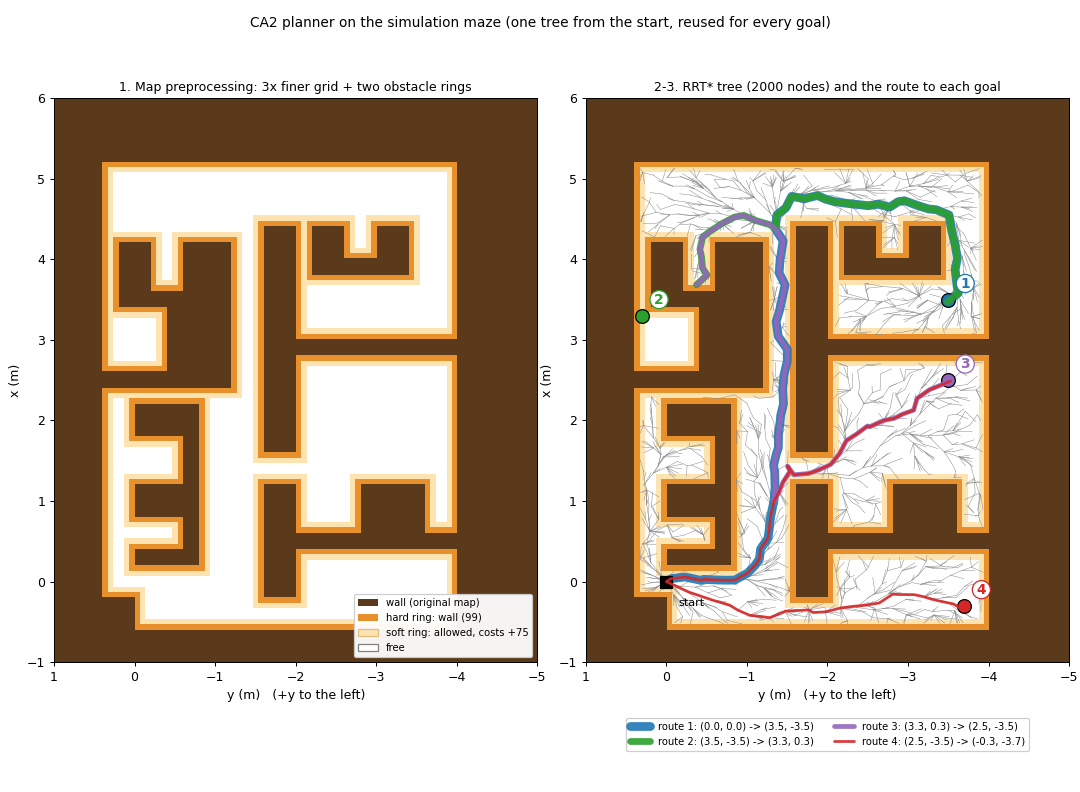
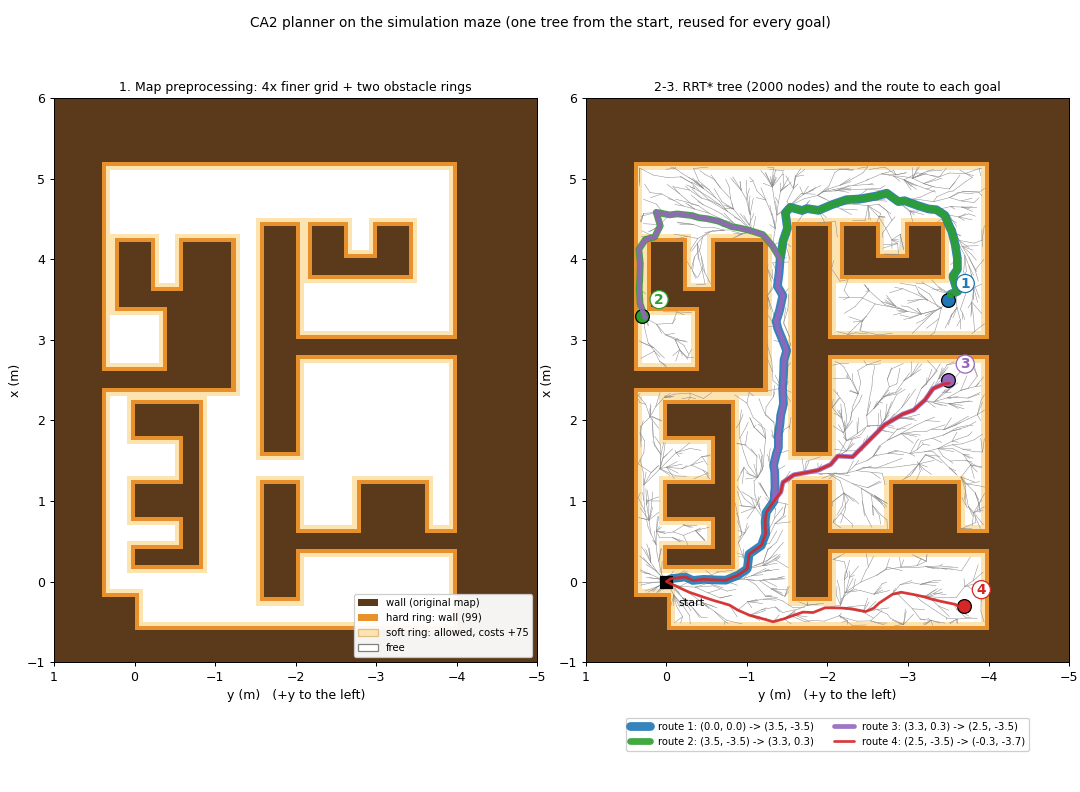
Final final

diff --git a/media/ca2/make_ca2_media.py b/media/ca2/make_ca2_media.py
@@ -24,17 +24,18 @@ cfg = pp.sim_config
 grid = np.load(os.path.join(PKG, cfg["map_file"]), allow_pickle=True)
 origin, res, goals = cfg["origin"], cfg["resolution"], cfg["goal_list"]
 start = (0.0, 0.0)
+UP = 4  # map_upsample_factor in WaypointNode.__init__
 
 
 def preprocessed():
-    fake = types.SimpleNamespace(map_array=grid, map_upsample_factor=3)
+    fake = types.SimpleNamespace(map_array=grid, map_upsample_factor=UP)
     return pp.WaypointNode.preprocess_map(fake)
 
 
 def build_tree(fine, n_nodes=2000, seed=0):
     '''The same RRT* loop as WaypointNode.timer_callback (seeded so the figure is repeatable).'''
     np.random.seed(seed)
-    fres = res / 3
+    fres = res / UP
     tree = pp.Tree()
     tree.add_node(pp.TreeNode(pos=start, cost=0, parent_id=-1, id=0, fixed_cost=0))
     while len(tree.nodes) < n_nodes:
@@ -62,7 +63,7 @@ def routes(tree):
 
 def show_map(ax, fine, title):
     # 0 free, 75 soft ring, 99 hard (original wall or hard ring)
-    original = np.repeat(np.repeat(grid, 3, axis=0), 3, axis=1) == 99
+    original = np.repeat(np.repeat(grid, UP, axis=0), UP, axis=1) == 99
     layer = np.where(original, 3, np.where(fine == 99, 2, np.where(fine == 75, 1, 0)))
     cmap = ListedColormap(["white", "#fde3b0", "#e8902c", "#5a3a1a"])
     x1, y1 = origin[0] + grid.shape[0] * res, origin[1] + grid.shape[1] * res
@@ -83,7 +84,7 @@ def figure_planner():
     fig, axs = plt.subplots(1, 2, figsize=(12, 8.8), dpi=DPI)
     fig.subplots_adjust(left=0.05, right=0.99, top=0.9, bottom=0.14, wspace=0.1)
 
-    show_map(axs[0], fine, "1. Map preprocessing: 3x finer grid + two obstacle rings")
+    show_map(axs[0], fine, f"1. Map preprocessing: {UP}x finer grid + two obstacle rings")
     from matplotlib.patches import Patch
     axs[0].legend(handles=[Patch(fc="#5a3a1a", label="wall (original map)"), Patch(fc="#e8902c", label="hard ring: wall (99)"),
                            Patch(fc="#fde3b0", ec="#e0c080", label="soft ring: allowed, costs +75"), Patch(fc="white", ec="gray", label="free")],

diff --git a/rb2301/src/rb2301_ca2/rb2301_ca2/path_planning.py b/rb2301/src/rb2301_ca2/rb2301_ca2/path_planning.py
@@ -167,7 +167,7 @@ class WaypointNode(Node):
         self.map_array = map_array
         self.origin = origin # World (x, y) coordinate of the grid's [0, 0] corner. Use with grid_to_world()/world_to_grid()
         self.resolution = resolution # Metres per grid cell (0.2). Use with grid_to_world()/world_to_grid()
-        self.map_upsample_factor = 3
+        self.map_upsample_factor = 4
         self.planning_resolution = self.resolution / self.map_upsample_factor
 
         self.frame = frame # Optitrack->maze frame (real robot only), see optitrack_to_maze()
@@ -332,8 +332,8 @@ class WaypointNode(Node):
         self.car_initial_alignment_complete = False
 
     # Upsample the occupancy grid, then apply two one-fine-cell bubbles:
-    # first a hard 99 ring, followed by a softer 75 ring.  Each ring is 1/3
-    # of an original cell because the planning map has 3x resolution.
+    # first a hard 99 ring, followed by a softer 75 ring.  Each ring is 1/4
+    # of an original cell because the planning map has 4x resolution.
     def preprocess_map(self) -> np.ndarray:
         original_map = np.repeat(
             np.repeat(self.map_array, self.map_upsample_factor, axis=0),

diff --git a/CA2.md b/CA2.md
@@ -12,7 +12,7 @@ The robot has to drive through a known maze and reach a list of goal points in o
 
 ```mermaid
 flowchart LR
-    A[Occupancy grid] --> B[Upsample x3<br/>+ obstacle bubbles]
+    A[Occupancy grid] --> B[Upsample x4<br/>+ obstacle bubbles]
     B --> C[RRT* tree<br/>2000 nodes, built once]
     C --> D[Route to next goal<br/>via lowest common ancestor]
     D --> E[Carrot point<br/>ahead on the route]
@@ -22,7 +22,7 @@ flowchart LR
 
 ### 1. Map preprocessing (`preprocess_map`)
 
-- The 0.2 m grid is upsampled 3 times, to 0.067 m cells, so the walls can be inflated by less than a whole original cell.
+- The 0.2 m grid is upsampled 4 times, to 0.05 m cells, so the walls can be inflated by less than a whole original cell. Each ring below is one fine cell (0.05 m) wide.
 - **Hard ring:** every free fine cell next to a wall becomes a wall (99).
 - **Soft ring:** every free fine cell next to that becomes 75. It can still be crossed, but every node placed there costs extra, so routes keep away from walls when they have room.
 
@@ -44,7 +44,7 @@ One tree serves every goal. For goal *k*, the start is the tree node nearest the
 
 ![CA2 planner](media/ca2/ca2_planner.png)
 
-*Drawn like the code's `print_map()`: +x up, +y to the left. Left: the inflated planning map; the robot may enter the soft ring (it just costs more), never the hard ring. Right: one seeded run of the real planner code (`media/ca2/make_ca2_media.py`), the 2,000-node tree and the four routes. Route 2 stops short of goal 2. Goal 2 sits in a pocket whose only way in is a one-cell (0.2 m) corridor, and the rings fill that corridor until just a 1/3-cell (6.7 cm) soft strip is left, which a tree with 0.2 m steps almost never threads. So this happens on nearly every run, not just this one. The robot treats the end of the route as the goal, so it turns back for goal 3 from there.*
+*Drawn like the code's `print_map()`: +x up, +y to the left. Left: the inflated planning map; the robot may enter the soft ring (it just costs more), never the hard ring. Right: one seeded run of the real planner code (`media/ca2/make_ca2_media.py`), the 2,000-node tree and the four routes, all ending on their goals. Goal 2 sits in a pocket whose only way in is a one-cell (0.2 m) corridor. With 4x upsampling the rings leave a 0.10 m soft strip through it; with the earlier 3x they left only 6.7 cm and the tree almost never got in. The tree is random, so it can still miss: across five seeds route 2 reached goal 2 in three, stopped 0.17 m short in one and 0.66 m short in another. The robot treats the end of the route as the goal.*
 
 ### 4. Path following: carrot point (`get_carrot_target`)
 
